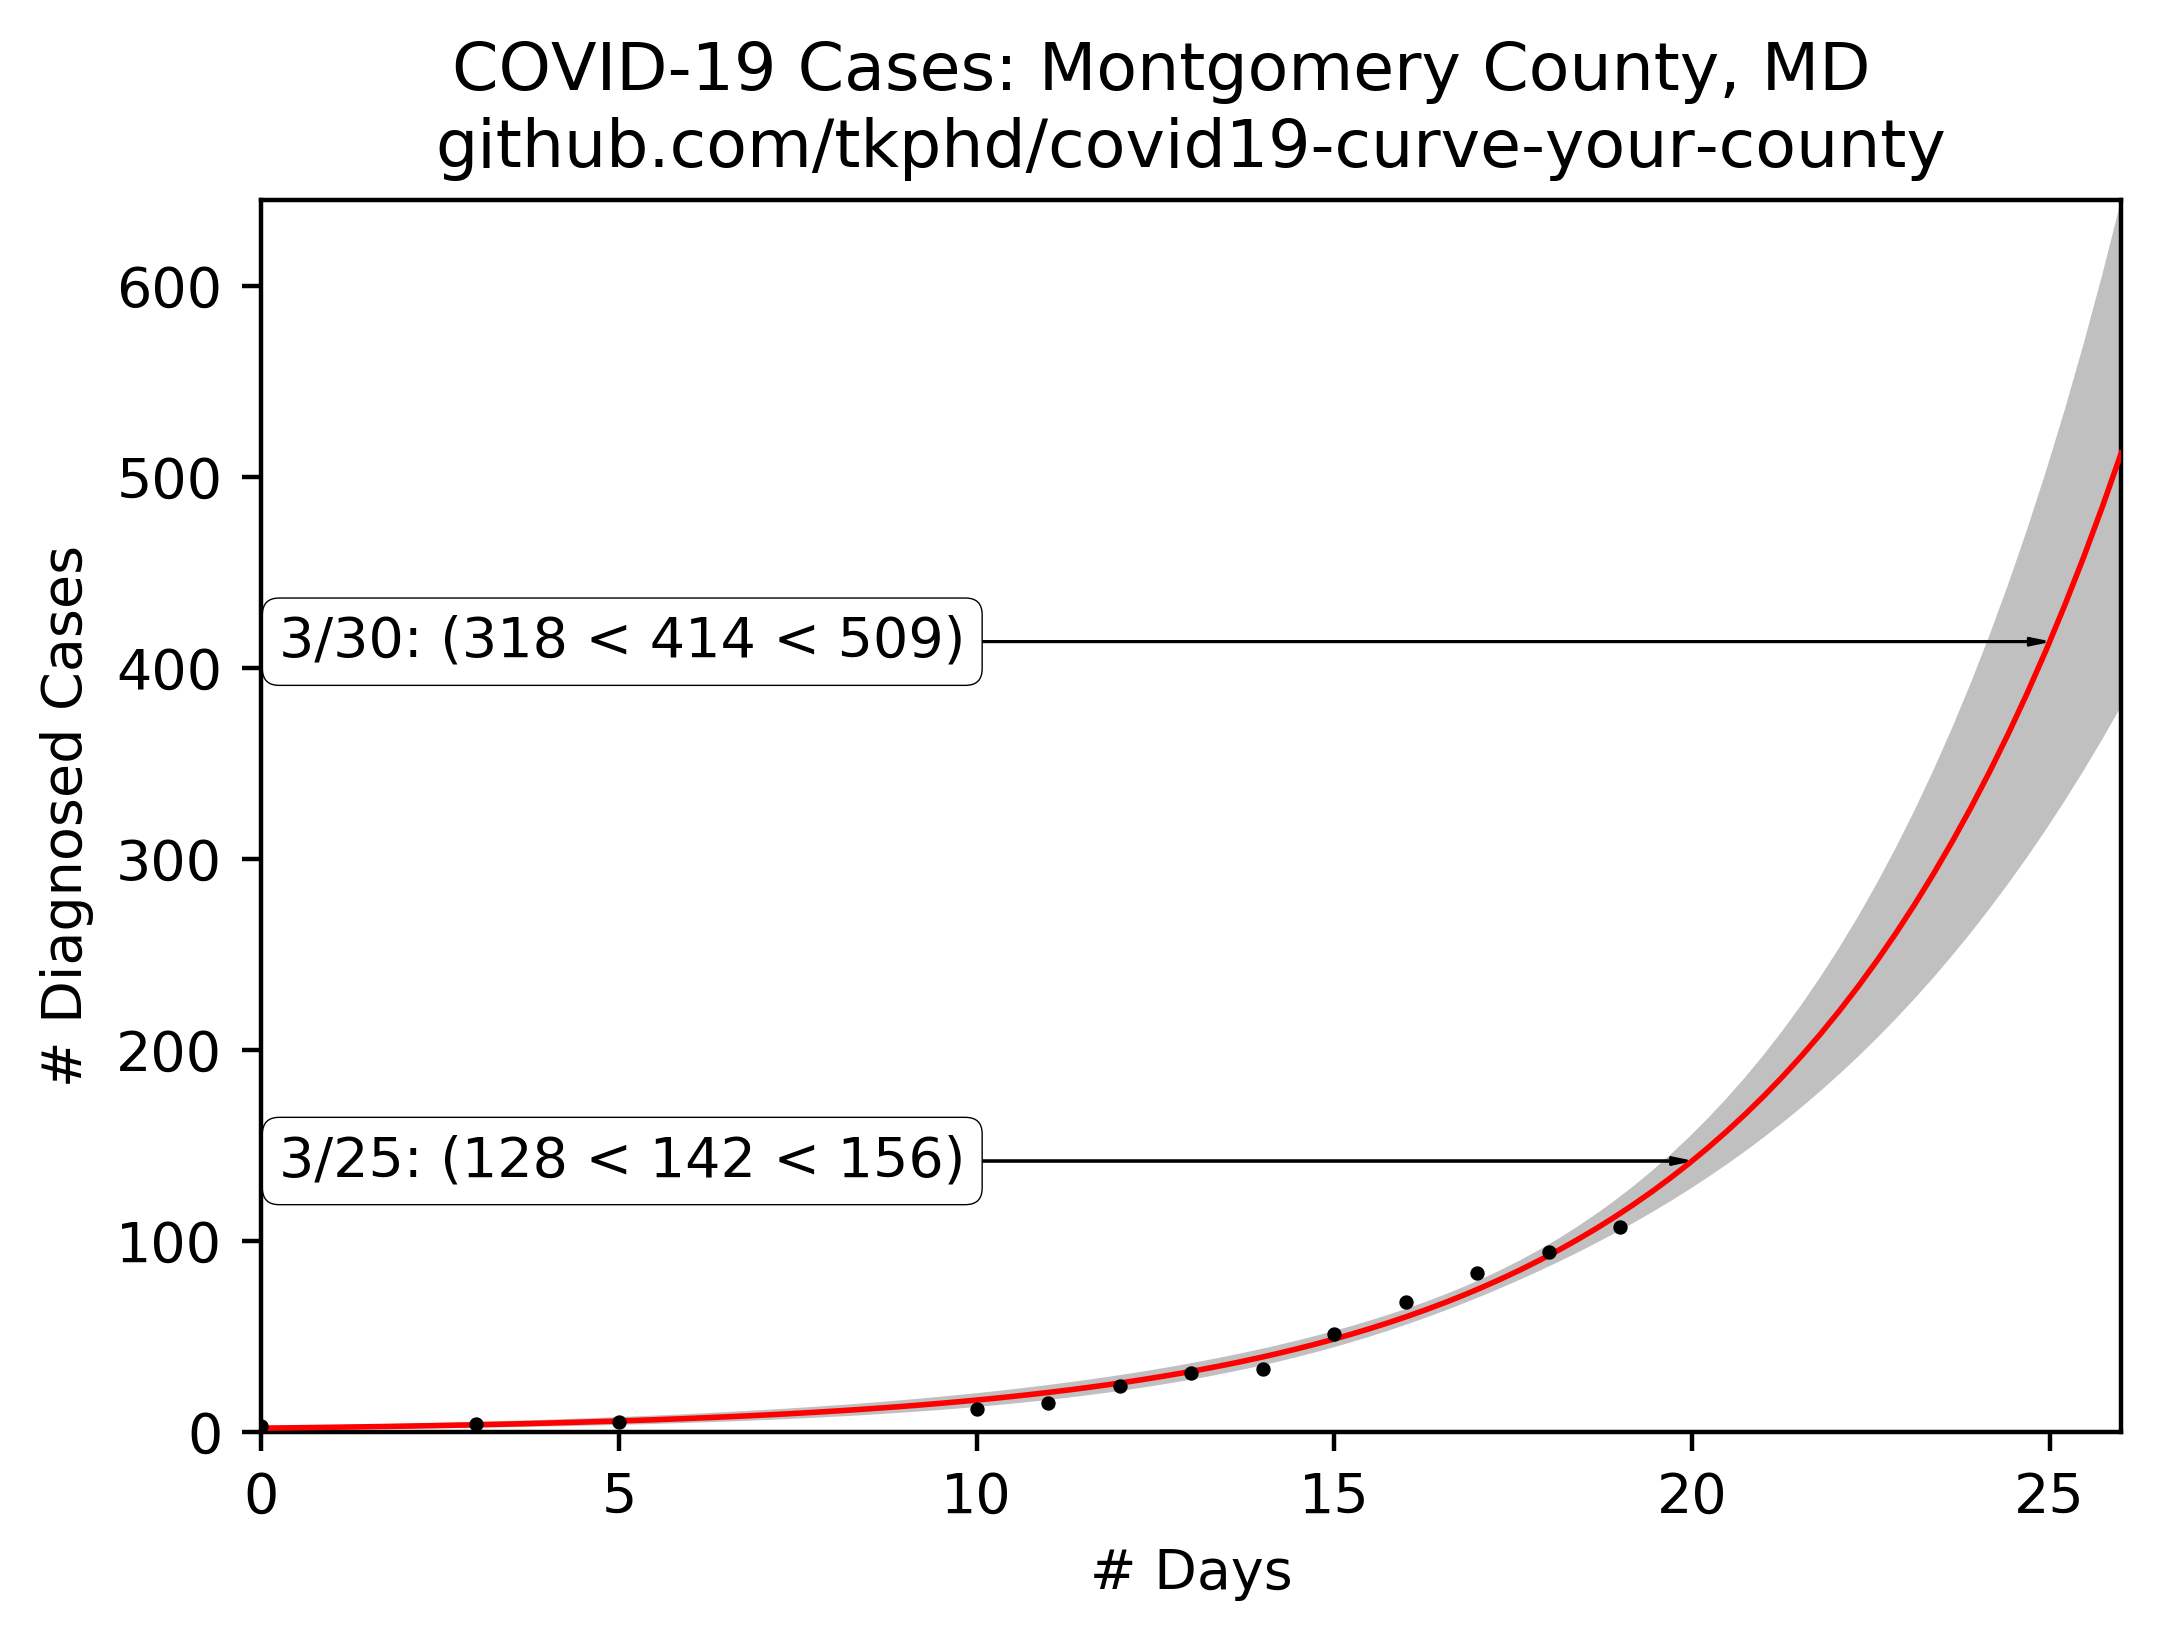
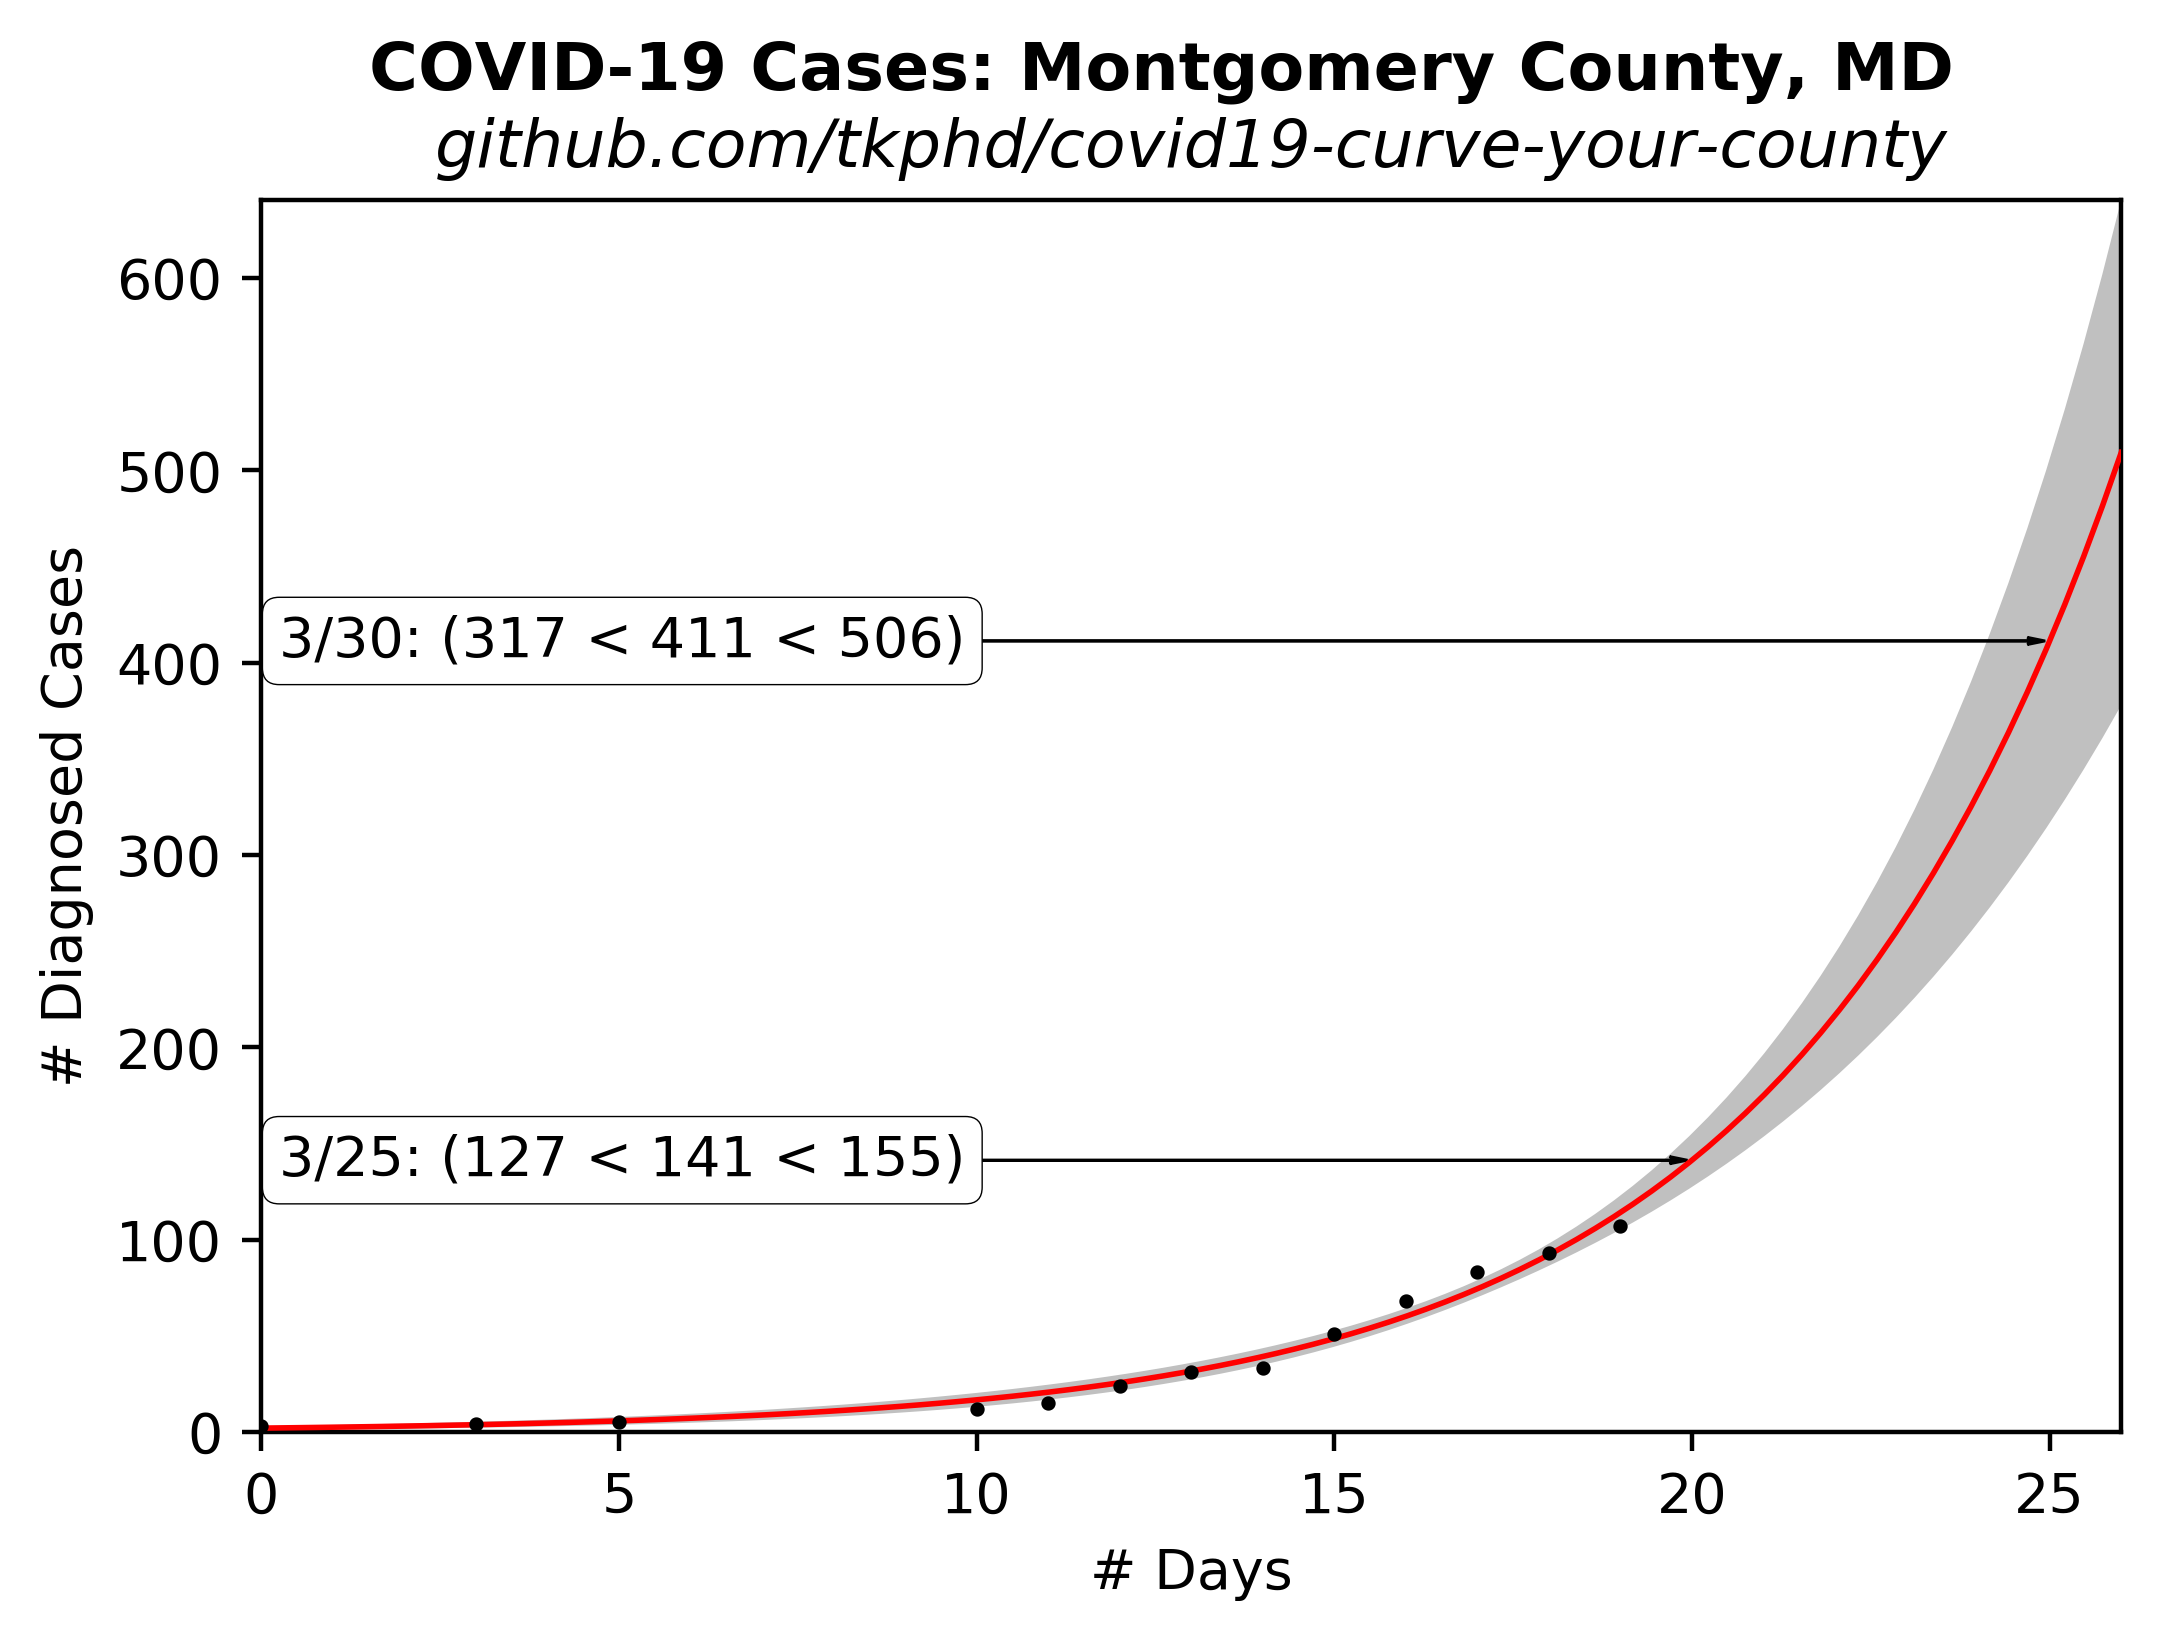
clearer title styling

diff --git a/exponential.py b/exponential.py
@@ -15,15 +15,14 @@ def model(p, x):
 
 
 fig = plt.figure(figsize=(6, 4))
-plt.suptitle("COVID-19 Cases: Montgomery County, MD")
-plt.title("github.com/tkphd/covid19-curve-your-county")
+plt.suptitle("COVID-19 Cases: Montgomery County, MD", fontweight="bold")
+plt.title("github.com/tkphd/covid19-curve-your-county", style="oblique")
 plt.xlabel("# Days")
 plt.ylabel("# Diagnosed Cases")
 
 # Data
 
 df = pd.read_csv("us_md_montgomery.csv")
-print(df)
 
 y = np.array(df["diagnosed"])
 start = strptime(df["date"].iloc[0], "%Y-%m-%d")
@@ -43,9 +42,9 @@ plt.scatter(x, y, marker=".", s=10, color="k", zorder=10)
 f = kmpfit.simplefit(model, [1, 1], x, y)
 a, b = f.params
 
-print("cases ~ {0:.2g} * (1 + {1:.2g})^(t - t0))".format(a, b))
+# print("cases ~ {0:.2g} * (1 + {1:.2g})^t".format(a, b))
 
-# Confidence Band: dfdp represents the partial derivatives of the model with respect to each parameter p (i.e., a, b, and c)
+# Confidence Band: dfdp represents the partial derivatives of the model with respect to each parameter p (i.e., a and b)
 
 xhat = np.linspace(0, x[-1] + 7, 100)
 dfdp = [(1 + b) ** xhat, (a * xhat * (1 + b) ** xhat) / (1 + b)]
